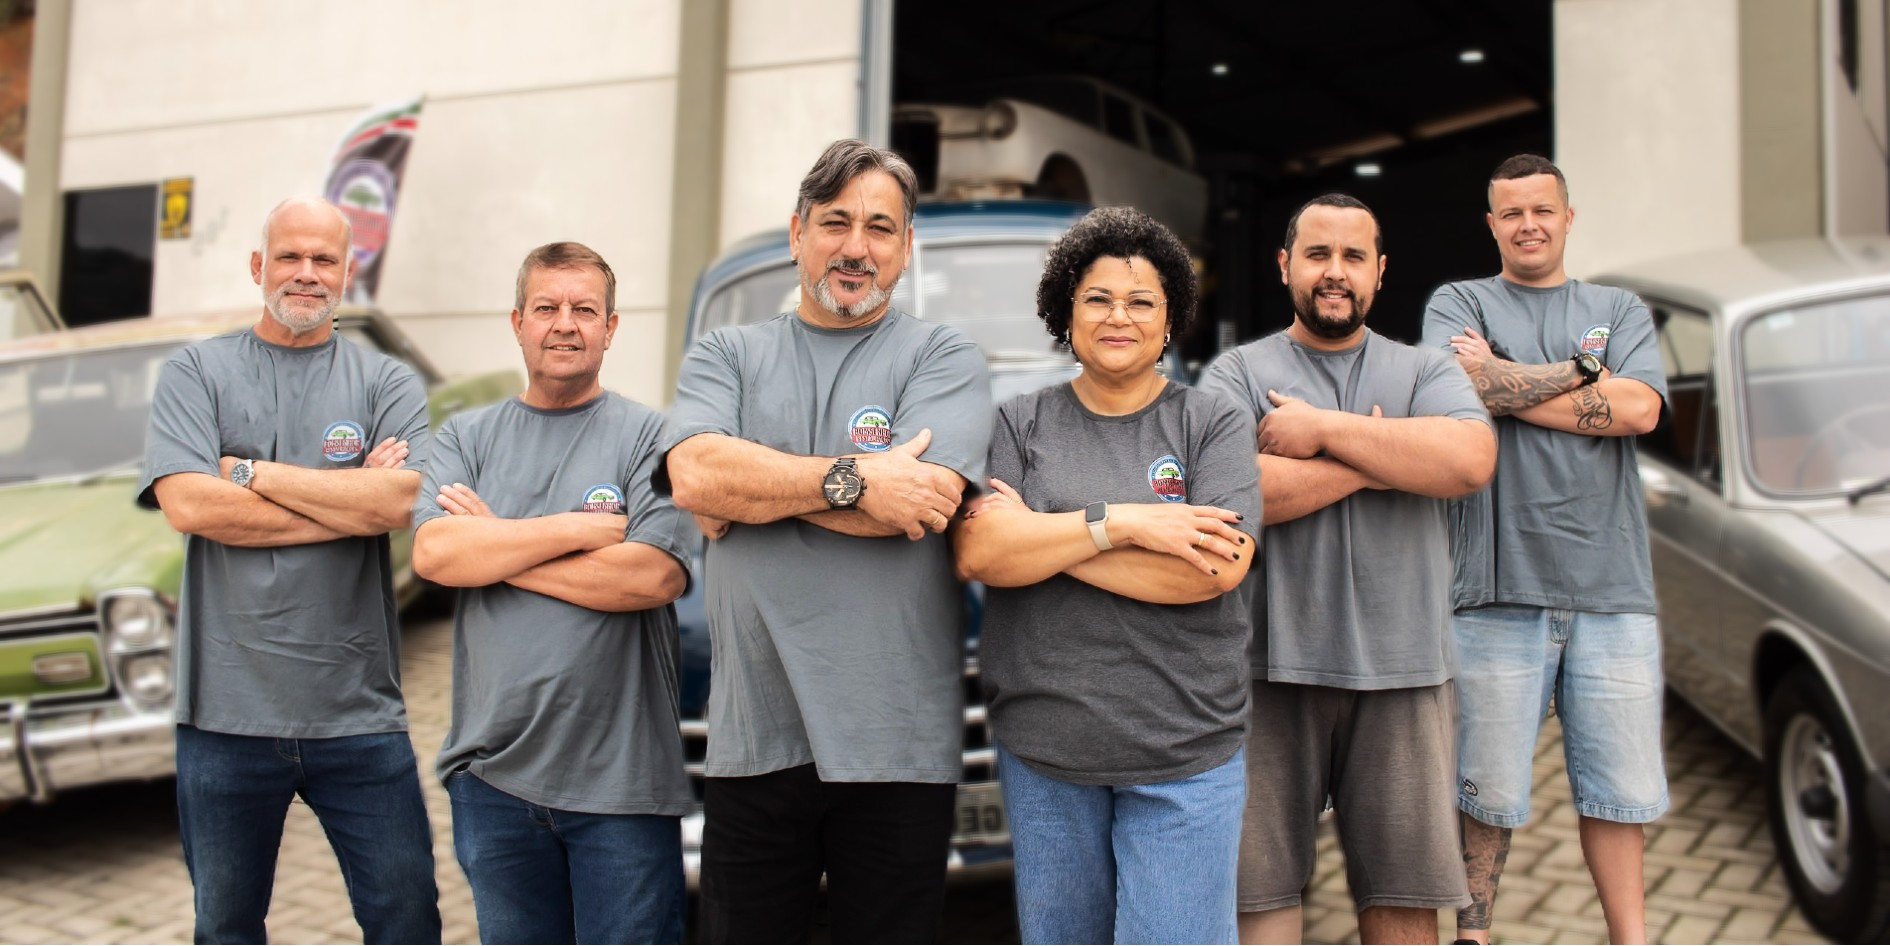
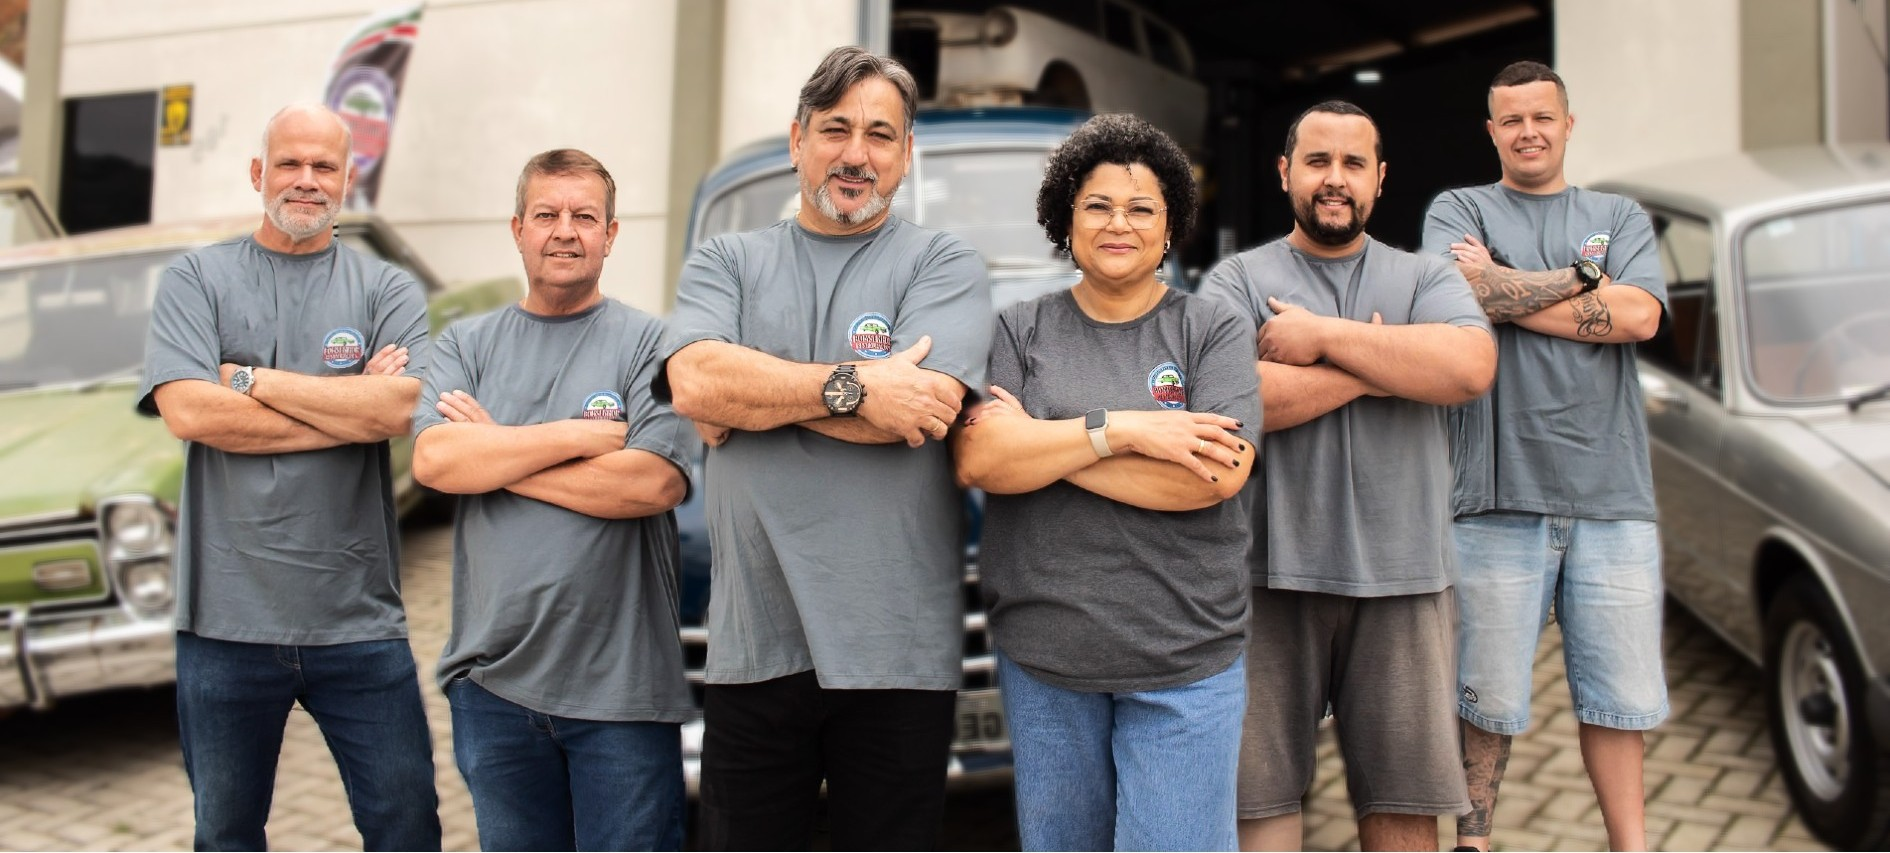
Add partner brands section, fix spacing rhythm, redesign footer
- Add "Marcas parceiras" section on the Sobre page (Backstage Metal
  Shaping Tools, H-7 Desengraxante, WD-40), logos falling back to
  text if a file is missing/misnamed
- Reduce section vertical padding and remove stacked inner margins
  that were doubling up the whitespace between sections
- Redesign the footer: bigger/brighter brand wordmark, better column
  proportions on desktop, nav labels reusing the site's gold s-tag
  style instead of a one-off treatment
- Fix a CSS specificity bug where .contact-card a was overriding the
  WhatsApp button's white text with navy
- Update hero photos (contato, home) and vehicle photo list edits

diff --git a/index.html b/index.html
@@ -55,10 +55,10 @@ button{font-family:var(--fb);cursor:pointer;border:none;background:none}
 #mobileMenu .wa-mob{margin-top:1.5rem;background:#ED1C24;color:#FFFFFF;padding:1rem 2rem;border-radius:var(--r);text-align:center;font-family:var(--fb);font-size:13px;letter-spacing:0.08em;text-transform:uppercase}
 
 #app{padding-top:var(--nav-h);min-height:100vh}
-.section{padding:5rem 1.5rem}
+.section{padding:3.5rem 1.5rem}
 .section-inner{max-width:var(--max);margin:0 auto}
-@media(min-width:768px){.section{padding:6rem 2.5rem}}
-@media(min-width:1280px){.section{padding:7rem 3rem}}
+@media(min-width:768px){.section{padding:4.5rem 2.5rem}}
+@media(min-width:1280px){.section{padding:5.5rem 3rem}}
 
 .s-tag{display:inline-flex;align-items:center;gap:10px;font-size:11px;letter-spacing:0.16em;text-transform:uppercase;color:#8A6D1E;margin-bottom:1rem}
 .s-tag::before{content:'';width:24px;height:1px;background:#8A6D1E}
@@ -184,19 +184,17 @@ button{font-family:var(--fb);cursor:pointer;border:none;background:none}
 .section-dark .s-title{color:#FFFFFF}
 .section-dark .s-title em{color:#F4C542}
 
-#footer{background:#1D4175;padding:3rem 1.5rem 2rem;border-top:1px solid rgba(255,255,255,0.04)}
+#footer{background:#1D4175;padding:3.5rem 1.5rem 2rem;border-top:1px solid rgba(255,255,255,0.04)}
 .footer-inner{max-width:var(--max);margin:0 auto}
 .footer-top{display:grid;grid-template-columns:1fr;gap:2.5rem;margin-bottom:2.5rem}
-@media(min-width:768px){.footer-top{grid-template-columns:1fr 1fr 1fr}}
-.footer-brand{display:flex;align-items:center;gap:10px;margin-bottom:1rem}
-.footer-brand-name{font-family:var(--fd);font-size:1rem;color:rgba(250,249,246,0.7)}
-.footer-tagline{font-size:13px;color:rgba(250,249,246,0.35);line-height:1.7}
-.footer-nav h5{font-size:11px;letter-spacing:0.12em;text-transform:uppercase;color:#F4C542;margin-bottom:1rem;opacity:0.85}
-.footer-nav a{display:block;font-size:13px;color:rgba(250,249,246,0.4);padding:4px 0;transition:color var(--t)}
+@media(min-width:768px){.footer-top{grid-template-columns:1.6fr 1fr 1fr}}
+.footer-brand-name{font-family:var(--fd);font-size:1.6rem;font-weight:400;color:#FAF9F6;letter-spacing:0.01em;margin-bottom:.6rem}
+.footer-tagline{font-size:13px;color:rgba(250,249,246,0.55);line-height:1.7;max-width:280px}
+.footer-nav a{display:block;font-size:13px;color:rgba(250,249,246,0.6);padding:4px 0;transition:color var(--t)}
 .footer-nav a:hover{color:#F4C542}
-.footer-bottom{border-top:1px solid rgba(255,255,255,0.05);padding-top:1.5rem;display:flex;flex-direction:column;gap:0.5rem}
+.footer-bottom{border-top:1px solid rgba(255,255,255,0.08);padding-top:1.5rem;display:flex;flex-direction:column;gap:0.5rem}
 @media(min-width:768px){.footer-bottom{flex-direction:row;justify-content:space-between}}
-.footer-copy,.footer-loc{font-size:11px;color:rgba(250,249,246,0.2)}
+.footer-copy,.footer-loc{font-size:11px;color:rgba(250,249,246,0.4)}
 
 .wa-float{position:fixed;bottom:1.5rem;right:1.5rem;z-index:90;width:52px;height:52px;border-radius:50%;background:#25D366;box-shadow:0 4px 20px rgba(37,211,102,0.45);display:flex;align-items:center;justify-content:center;transition:transform var(--t)}
 .wa-float:hover{transform:scale(1.1)}
@@ -215,8 +213,15 @@ button{font-family:var(--fb);cursor:pointer;border:none;background:none}
 .contact-card{background:#FFFFFF;border:1px solid #D3D3D3;border-radius:var(--rl);padding:2rem}
 .contact-card h3{font-family:var(--fd);font-size:1.2rem;color:#333333;margin-bottom:0.75rem}
 .contact-card p{font-size:14px;color:#333333;line-height:1.75}
-.contact-card a{color:#1D4175;font-weight:500}
-.contact-card a:hover{text-decoration:underline}
+.contact-card p a{color:#1D4175;font-weight:500}
+.contact-card p a:hover{text-decoration:underline}
+
+.partners-grid{display:grid;grid-template-columns:repeat(auto-fit,minmax(200px,1fr));gap:1.5rem;align-items:stretch}
+.partner-logo{display:flex;align-items:center;justify-content:center;padding:1rem;min-height:160px;border:1px solid #D3D3D3;border-radius:var(--rl)}
+.partner-logo img{max-width:100%;max-height:120px;object-fit:contain;filter:grayscale(1);opacity:.65;transition:filter var(--t),opacity var(--t)}
+.partner-logo:hover img{filter:grayscale(0);opacity:1}
+.partner-logo-name{font-family:var(--fb);font-size:13px;font-weight:500;color:#6B6B6B;text-align:center;transition:color var(--t)}
+.partner-logo:hover .partner-logo-name{color:#333333}
 
 @media(max-width:767px){.hamburger{display:flex}.nav-links{display:none}}
 
@@ -264,13 +269,11 @@ button{font-family:var(--fb);cursor:pointer;border:none;background:none}
   <div class="footer-inner">
     <div class="footer-top">
       <div>
-        <div class="footer-brand">
-          <span class="footer-brand-name">Bomsenhor Restaurações</span>
-        </div>
+        <div class="footer-brand-name">Bomsenhor Restaurações</div>
         <p class="footer-tagline">Restauração e importação de veículos clássicos em Gaspar, SC.</p>
       </div>
       <div class="footer-nav">
-        <h5>Navegação</h5>
+        <span class="s-tag on-dark">Navegação</span>
         <a href="#/acervo">Acervo</a>
         <a href="#/projetos">Projetos</a>
         <a href="#/importacao">Importação</a>
@@ -278,7 +281,7 @@ button{font-family:var(--fb);cursor:pointer;border:none;background:none}
         <a href="#/contato">Contato</a>
       </div>
       <div class="footer-nav">
-        <h5>Contato</h5>
+        <span class="s-tag on-dark">Contato</span>
         <a href="https://wa.me/5547991742031?text=Olá! Vim pelo site e gostaria de tirar algumas dúvidas." target="_blank">WhatsApp</a>
         <a href="https://instagram.com/bomsenhorrestauracoes" target="_blank">Instagram</a>
         <a href="mailto:bomsenhor10@icloud.com">E-mail</a>
@@ -317,7 +320,7 @@ const HERO_SETS={
   projetos:['1.jpg','2.jpg','3.jpg','4.jpg'],
   sobre:['1.jpg','2.jpg','3.jpg'],
   importacao:['1.jpg','2.jpg','3.jpg'],
-  contato:['1.jpg','2.jpg','3.jpg']
+  contato:['1.jpg','2.jpg','3.jpg','5.jpg']
 };
 function heroUrls(pagina){
   return HERO_SETS[pagina].map(f=>`images/hero/${pagina}/${f}`);
@@ -683,7 +686,7 @@ function renderProjetos(){
 </div>
 <section class="section">
   <div class="section-inner">
-    ${a.length?`<div style="margin-bottom:4rem">
+    ${a.length?`<div style="margin-bottom:3rem">
       <span class="s-tag reveal">Em andamento</span>
       <h2 class="s-title reveal" style="margin-bottom:2rem">Projetos <em>em execução</em></h2>
       <div class="v-grid">${a.map(pCard).join('')}</div>
@@ -710,7 +713,7 @@ function renderProjetoDetalhe(id){
       ${bdg(p.status)}
     </div>
     ${detailHeroHtml(p,'projetos',{fallbackOnly:`<div style="position:absolute;inset:0;display:flex;align-items:center;justify-content:center"><span style="font-family:var(--fd);font-size:clamp(3rem,8vw,6rem);color:rgba(255,255,255,0.07);font-weight:700">${p.ano}</span></div>`})}
-    <div class="detail-info-grid" style="margin-bottom:4rem">
+    <div class="detail-info-grid" style="margin-bottom:3rem">
       <div class="detail-desc">
         ${p.descricao.split('\n').filter(Boolean).map(par=>`<p>${par}</p>`).join('')}
         ${p.resultado?`<div style="margin-top:2rem;padding:1.5rem;background:#FEF9EC;border-radius:var(--rl);border:1px solid #D3D3D3">
@@ -737,7 +740,7 @@ function renderProjetoDetalhe(id){
         </div>
       </div>`).join('')}
     </div>
-    <div style="margin-top:4rem">
+    <div style="margin-top:3rem">
       <h3 class="reveal" style="font-family:var(--fd);font-size:1.3rem;font-weight:400;margin-bottom:1.5rem">Registros fotográficos</h3>
       <div class="gallery">
         ${galleryHtml(p,'projetos')}
@@ -761,7 +764,7 @@ function renderImportacao(){
 </div>
 <section class="section" style="background:#FFFFFF">
   <div class="section-inner">
-    <div style="max-width:680px;margin-bottom:4rem">
+    <div style="max-width:680px;margin-bottom:3rem">
       <span class="s-tag reveal">Como funciona</span>
       <h2 class="s-title reveal" style="margin-bottom:1.5rem">Do sonho à <em>garagem</em></h2>
       <p class="reveal" style="font-size:15px;color:#7A7A7A;line-height:1.9;margin-bottom:1rem">Importamos veículos clássicos ou peças específicas diretamente dos EUA, Europa e Japão. Cuidamos de cada detalhe: pesquisa, negociação, transporte marítimo, desembaraço aduaneiro e regularização no Brasil.</p>
@@ -794,6 +797,32 @@ Você nos diz o que precisa e nós cuidamos de todo o resto — com transparênc
 </section>`;
 }
 
+// ── MARCAS PARCEIRAS ─────────────────────────────────────────
+// Para adicionar uma marca parceira:
+//   1. Coloque o logo dela (de preferência PNG com fundo transparente)
+//      dentro de images/parceiros/, com qualquer nome de arquivo.
+//   2. Adicione um item na lista abaixo com o nome da marca e o nome
+//      do arquivo do logo. "url" é opcional (site da marca; se
+//      preenchido, o logo/nome vira um link que abre em nova aba).
+// Se não tiver o arquivo do logo ainda, pode deixar "logo" vazio
+// ('') que o site mostra só o nome da marca no lugar da imagem.
+// A seção "Marcas parceiras" só aparece no site (página Sobre)
+// quando tiver pelo menos um item aqui.
+const PARCEIROS=[
+  {nome:'Backstage Metal Shaping Tools',logo:'backstage.png',url:'https://backstage.ind.br/'},
+  {nome:'H-7 Desengraxante',logo:'h7.png',url:'https://www.h7desengraxante.com.br/'},
+  {nome:'WD-40',logo:'wd40.png',url:'https://wd40.com.br/'}
+];
+function parceirosHtml(){
+  return PARCEIROS.map(p=>{
+    const nome=escAttr(p.nome);
+    const conteudo=p.logo?`<img src="images/parceiros/${p.logo}" alt="${nome}" onerror="this.replaceWith(Object.assign(document.createElement('span'),{className:'partner-logo-name',textContent:this.alt}))">`:`<span class="partner-logo-name">${p.nome}</span>`;
+    const tag=p.url?'a':'div';
+    const linkAttrs=p.url?` href="${escAttr(p.url)}" target="_blank" rel="noopener"`:'';
+    return`<${tag} class="partner-logo reveal" title="${nome}"${linkAttrs}>${conteudo}</${tag}>`;
+  }).join('');
+}
+
 // ── SOBRE ────────────────────────────────────────────────────
 function renderSobre(){
   document.getElementById('app').innerHTML=`
@@ -811,7 +840,7 @@ function renderSobre(){
       <p class="reveal" style="font-size:16px;color:#7A7A7A;line-height:1.9;margin-bottom:1.25rem">A Bomsenhor Restaurações nasceu em 2009 da paixão de seu fundador por automóveis clássicos. O que começou como um projeto de restauração em uma pequena oficina em Gaspar, SC, cresceu para se tornar uma das referências em restauração e importação de clássicos no Sul do Brasil.</p>
       <p class="reveal" style="font-size:16px;color:#7A7A7A;line-height:1.9">Hoje, com mais de 15 anos de experiência, somos reconhecidos pela excelência técnica, pelo cuidado artesanal com cada projeto e pela dedicação em preservar a história automotiva que cada veículo carrega.</p>
     </div>
-    <div style="display:grid;grid-template-columns:repeat(3,1fr);gap:1px;background:#D3D3D3;border-radius:var(--rl);overflow:hidden;margin:3rem 0">
+    <div style="display:grid;grid-template-columns:repeat(3,1fr);gap:1px;background:#D3D3D3;border-radius:var(--rl);overflow:hidden;margin-top:2rem">
       ${[['15+','Anos de experiência'],['120+','Veículos restaurados'],['Gaspar','Santa Catarina']].map(([n,l])=>`
       <div style="background:#0F1E33;padding:1.75rem 1rem;text-align:center" class="reveal">
         <div style="font-family:var(--fd);font-size:2.5rem;font-weight:400;color:#FAF9F6;line-height:1">${n}</div>
@@ -862,7 +891,17 @@ function renderSobre(){
         </div>`).join('')}
     </div>
   </div>
-</section>`;
+</section>
+${PARCEIROS.length?`
+<section class="section" style="background:#FFFFFF">
+  <div class="section-inner">
+    <span class="s-tag reveal">Parcerias de confiança</span>
+    <h2 class="s-title reveal" style="margin-bottom:2rem">Marcas <em>parceiras</em></h2>
+    <div class="partners-grid">
+      ${parceirosHtml()}
+    </div>
+  </div>
+</section>`:''}`;
 }
 
 // ── CONTATO ──────────────────────────────────────────────────

diff --git a/data/veiculos.js b/data/veiculos.js
@@ -63,7 +63,7 @@ motor:'450cc',transmissao:'Manual 6 vel.',
 cor:'Azul com Branco',km:'Não informada',procedencia:'Nacional',carroceria:'Motocicleta Esportiva',
 descricao:'A Honda CBR 450SR de 1990 é uma lenda entre as esportivas nacionais dos anos 90, famosa pelo seu motor bicilíndrico de 46,5 cv e visual marcante. Este exemplar encontra-se completamente restaurado e certificado com Placa Preta de coleção, atestando seu alto grau de originalidade.\n\nCom pintura em azul e branco, o modelo conta com documentação rigorosamente em dia e mecânica totalmente revisada. Seu motor de 447 cm³ e a transmissão de 6 marchas funcionam perfeitamente, garantindo que a moto siga rodando para qualquer lugar do Brasil com total segurança.',
 destaques:['Placa Preta de coleção','Completamente restaurada','Motor bicilíndrico de 46,5 cv totalmente revisado','Documentação em dia e pronta para rodar'],
-   fotos:['6.jpg','1.jpg','4.jpg','3.jpg','5.jpg','2.jpg','7.jpg'],
+   fotos:['6.jpg','1.jpg','4.jpg','3.jpg','5.jpg','2.jpg'],
    bg:bg(0,10,5,5,18,12),destaque:false},
   {id:'dodge-polara-1980',nome:'Dodge Polara',ano:1980,tipo:'carro',status:'vendido',preco:'Vendido',
    motor:'1.8L Chrysler l4',transmissao:'Automática de fábrica',
